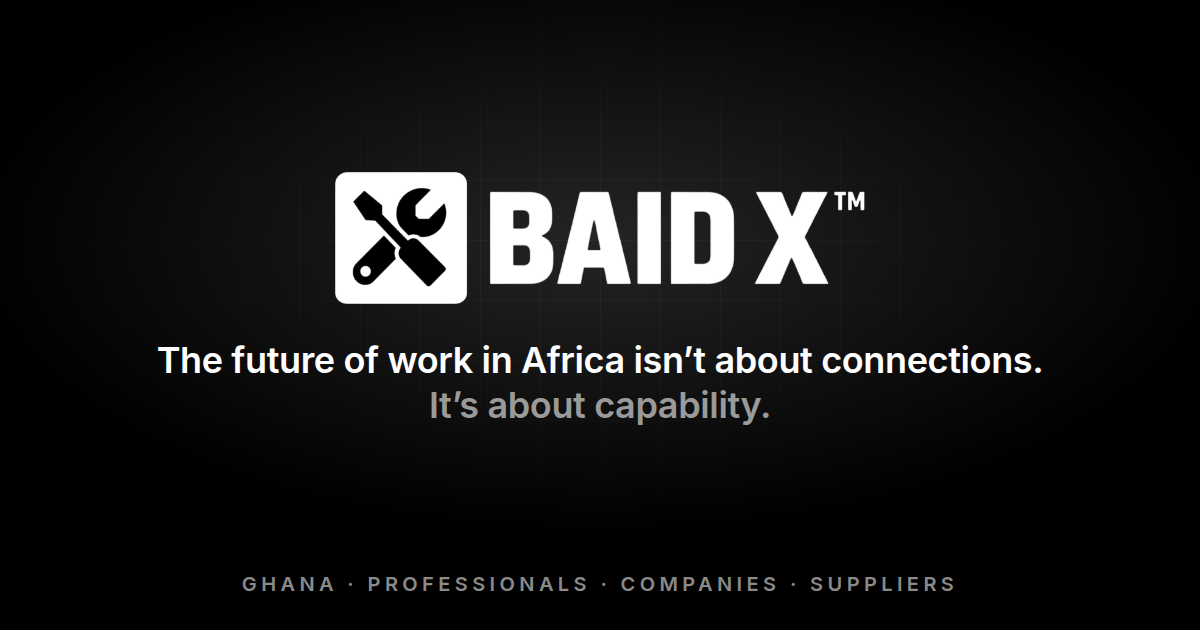
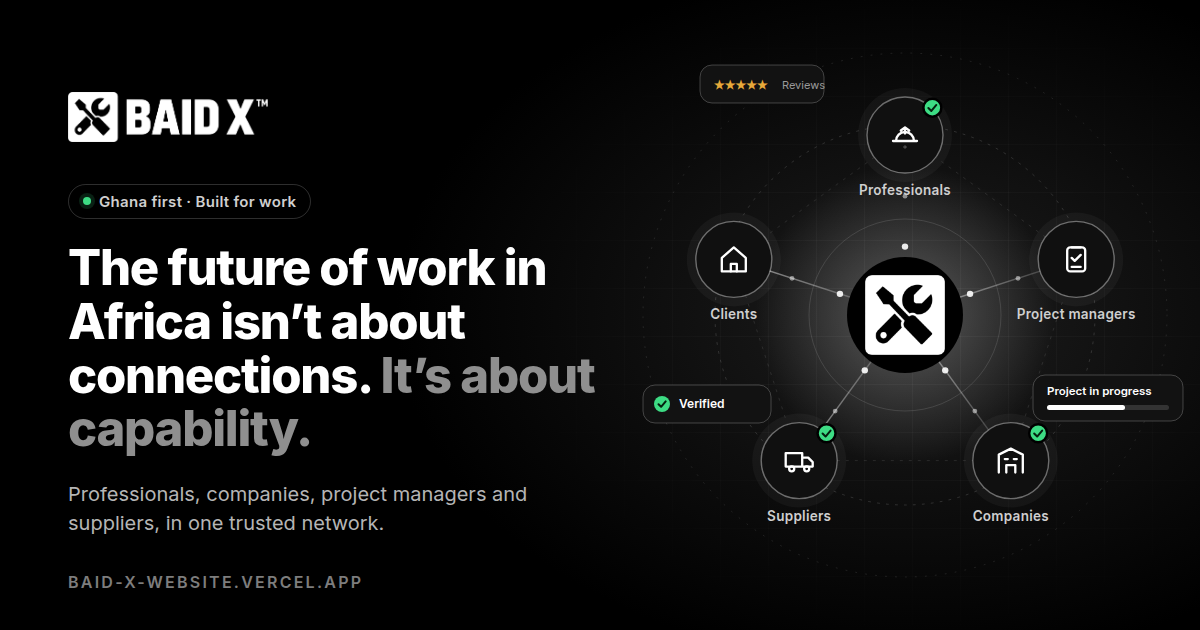
New link preview with ecosystem illustration, manifest shortcuts, staff Finance tab and Paystack admin endpoint
Claude-Session: https://claude.ai/code/session_01MX2saYVHC1yBKdkejr2JWq

diff --git a/js/admin.js b/js/admin.js
@@ -33,7 +33,7 @@
 
   async function render() {
     const me = state.me, can = (k) => me.can.includes(k);
-    const tabs = [["overview", "Overview"], ["orgs", "Organizations"], ...(can("audit:VIEW") ? [["audit", "Activity"]] : []), ["access", "Roles"]];
+    const tabs = [["overview", "Overview"], ["orgs", "Organizations"], ...(can("finance:VIEW") ? [["finance", "Finance"]] : []), ...(can("audit:VIEW") ? [["audit", "Activity"]] : []), ["access", "Roles"]];
     let body = "";
     try {
       if (state.tab === "overview") {
@@ -42,6 +42,8 @@
       } else if (state.tab === "orgs") {
         const list = await rpc("platform_orgs");
         body = list.length ? list.map((o) => `<div class="row org-row"><span class="tx"><b>${esc(o.name)}</b><small><span class="code">${esc(o.public_code)}</span> ${esc(o.owner)} · ${o.members} people · ${esc(pretty(o.org_type))}</small></span>${pill(o.status)}${can("organizations:EDIT") ? `<button class="btn-dark sm" data-org="${esc(o.org_id)}" data-s="${o.status === "ACTIVE" ? "SUSPENDED" : "ACTIVE"}">${o.status === "ACTIVE" ? "Suspend" : "Restore"}</button>` : ""}</div>`).join("") : `<div class="d-empty"><h3>No organizations yet</h3></div>`;
+      } else if (state.tab === "finance") {
+        body = await financeTab(can("finance:ADMINISTER"));
       } else if (state.tab === "audit") {
         const rows = await rpc("platform_audit");
         body = rows.map((a) => `<div class="tl"><b>${esc(pretty(a.action.replace(".", " · ")))}</b><small>${esc(a.actor)} · ${esc(pretty(a.entity))} · ${esc(ago(a.at))}</small></div>`).join("") || `<div class="d-empty"><h3>No activity yet</h3></div>`;
@@ -54,7 +56,30 @@
     root.innerHTML = top(me) + `<div class="segs">${tabs.map(([k, l]) => `<button class="${k === state.tab ? "on" : ""}" data-t="${k}">${esc(l)}</button>`).join("")}</div>` + body;
   }
 
+  const cedi = (m) => `GH₵${(m / 100).toLocaleString("en-GH", { minimumFractionDigits: 2, maximumFractionDigits: 2 })}`;
+  async function api(action) {
+    const { data: { session } } = await sb.auth.getSession();
+    const r = await fetch("/api/paystack-admin", { method: "POST", headers: { "content-type": "application/json", authorization: `Bearer ${session.access_token}` }, body: JSON.stringify({ action }) });
+    return { ok: r.ok, json: await r.json().catch(() => ({})) };
+  }
+  async function financeTab(admin) {
+    const f = await rpc("platform_finance");
+    const conn = admin ? await api("status") : null, c = conn?.json || {};
+    const modeP = c.mode === "test" ? `<span class="pill warn">Test mode</span>` : c.mode === "live" ? `<span class="pill ok">Live</span>` : `<span class="pill bad">Not connected</span>`;
+    const tiles = [[cedi(f.revenue_minor), "Revenue (net)"], [cedi(f.refunded_minor), "Refunded"], [f.pending, "Pending"], [f.failed, "Failed"], [f.flagged, "Needs review"], [Object.values(f.subs_by_status).reduce((a, b) => a + b, 0), "Subscriptions"]];
+    let html = `<div class="stats">${tiles.map(([n, l]) => `<div class="stat"><b>${esc(n)}</b><small>${esc(l)}</small></div>`).join("")}</div>`;
+    if (admin) html += `<div class="dcard"><h4><span>Paystack connection</span>${modeP}</h4>
+      <div class="kv"><span>Plans linked</span><b>${c.plans_with_code ?? 0} of ${c.plans ?? 0}</b></div>
+      <div class="kv"><span>Webhook URL</span><b style="word-break:break-all;font-size:12px">${esc(c.webhook_url || "")}</b></div>
+      <p class="cap2">Paste the webhook URL into Paystack → Settings → API Keys &amp; Webhooks. The secret key stays in Vercel and is never shown here.</p>
+      ${c.mode && c.mode !== "none" && c.plans_with_code < c.plans ? `<button class="btn-light sm" id="mkPlans">Create Paystack plans</button>` : ""}</div>`;
+    html += `<div class="sec">Founding program</div>` + f.founding.map((x) => `<div class="row"><span class="tx"><b>${esc(pretty(x.role))}</b><small>${x.started ? "Started " + esc(ago(x.started)) : "Not started"}</small></span><span class="amt">${x.claimed}/${x.total}</span></div>`).join("");
+    html += `<div class="sec">Recent payments</div>` + (f.recent.length ? f.recent.map((p) => `<div class="row"><span class="tx"><b>${esc(pretty(p.purpose))} · ${cedi(p.amount_minor)}</b><small>${esc(p.provider_reference)} · ${esc(ago(p.created_at))}${p.discrepancy ? " · " + esc(p.discrepancy) : ""}</small></span><span class="pill ${p.discrepancy ? "warn" : p.status === "successful" ? "ok" : ""}">${esc(pretty(p.status))}</span></div>`).join("") : `<div class="cap2">No payments yet. Nothing here is sample data.</div>`);
+    return html;
+  }
+
   root.addEventListener("click", async (e) => {
+    if (e.target.closest("#mkPlans")) { const b = e.target.closest("#mkPlans"); b.disabled = true; b.textContent = "Creating…"; const r = await api("create_plans"); toast(r.ok ? `Created ${r.json.created} plans${r.json.failed ? `, ${r.json.failed} failed` : ""}` : r.json.error || "Failed"); return render(); }
     const t = e.target.closest("[data-t]"); if (t) { state.tab = t.dataset.t; return render(); }
     if (e.target.closest("#out")) { await sb.auth.signOut(); return login(); }
     const b = e.target.closest("[data-org]");

diff --git a/api/paystack-admin.js b/api/paystack-admin.js
@@ -1,0 +1,39 @@
+// POST /api/paystack-admin { action: "status" | "create_plans" }  — staff only (Super Admin with finance:ADMINISTER).
+// Lets the owner check the Paystack connection and create the Paystack plans without ever exposing a key.
+const { configured, env, mode, supa, rpc, paystack } = require("./_lib/paystack");
+
+module.exports = async (req, res) => {
+  res.setHeader("cache-control", "no-store");
+  if (req.method !== "POST") return res.status(405).json({ error: "Method not allowed" });
+  try {
+    const token = String(req.headers.authorization || "").replace(/^Bearer /i, "");
+    if (!token) return res.status(401).json({ error: "Sign in again." });
+    // ask the database who this is (as them) and what they may do
+    const me = await supa("/rest/v1/rpc/platform_whoami", { method: "POST", body: {}, token });
+    if (!me.ok || !me.json?.can?.includes("finance:ADMINISTER")) return res.status(403).json({ error: "Not allowed." });
+
+    const action = req.body?.action || "status";
+    const plans = await supa("/rest/v1/membership_plans?select=id,role,tier,billing_interval,price_minor,currency,is_founding,paystack_plan_code");
+    const list = plans.json || [];
+    if (action === "status") {
+      return res.status(200).json({ configured: configured(), mode: mode(), plans: list.length, plans_with_code: list.filter((p) => p.paystack_plan_code).length, webhook_url: `${req.headers.origin || "https://baid-x-website.vercel.app"}/api/paystack-webhook` });
+    }
+    if (action === "create_plans") {
+      if (!configured()) return res.status(503).json({ error: "Paystack keys are not set." });
+      let created = 0, failed = 0;
+      for (const p of list.filter((x) => !x.paystack_plan_code)) {
+        const name = `BAID X ${p.role} ${p.tier} ${p.billing_interval}${p.is_founding ? " founding" : ""} (${mode()})`;
+        const r = await paystack("/plan", { method: "POST", body: { name, amount: p.price_minor, interval: p.billing_interval === "annual" ? "annually" : "monthly", currency: p.currency } });
+        const code = r.json?.data?.plan_code;
+        if (!r.ok || !code) { failed++; continue; }
+        const w = await supa(`/rest/v1/membership_plans?id=eq.${p.id}&paystack_plan_code=is.null`, { method: "PATCH", body: { paystack_plan_code: code, updated_at: new Date().toISOString() } });
+        if (w.ok) created++; else failed++;
+      }
+      await rpc("billing_apply_event", { p_type: "admin.plans_created", p_dedupe_key: `plans:${Date.now()}`, p_subscription_code: null, p_reference: null, p_amount_minor: null, p_payload: { created, failed, mode: mode() } });
+      return res.status(200).json({ created, failed });
+    }
+    return res.status(400).json({ error: "Unknown action." });
+  } catch {
+    return res.status(500).json({ error: "Something went wrong." });
+  }
+};

diff --git a/auth.html b/auth.html
@@ -25,15 +25,17 @@
   <meta property="og:title" content="Join BAID X · Ghana's work network" />
   <meta property="og:description" content="Find verified professionals, companies, project managers and suppliers across Ghana. Hire, run projects and build trust, all in one place." />
   <meta property="og:url" content="https://baid-x-website.vercel.app/auth.html" />
-  <meta property="og:image" content="https://baid-x-website.vercel.app/assets/og-image.png" />
+  <meta property="og:image" content="https://baid-x-website.vercel.app/assets/og-image.png?v=3" />
+  <meta property="og:image:secure_url" content="https://baid-x-website.vercel.app/assets/og-image.png?v=3" />
   <meta property="og:image:type" content="image/png" />
   <meta property="og:image:width" content="1200" />
   <meta property="og:image:height" content="630" />
-  <meta property="og:image:alt" content="BAID X: the future of work in Africa isn't about connections, it's about capability." />
+  <meta property="og:image:alt" content="BAID X: five roles, professionals, project managers, companies, suppliers and clients, connected around one trusted network. The future of work in Africa isn\'t about connections, it\'s about capability." />
   <meta name="twitter:card" content="summary_large_image" />
   <meta name="twitter:title" content="Join BAID X · Ghana's work network" />
   <meta name="twitter:description" content="Find verified professionals, companies, project managers and suppliers across Ghana. Hire, run projects and build trust, all in one place." />
-  <meta name="twitter:image" content="https://baid-x-website.vercel.app/assets/og-image.png" />
+  <meta name="twitter:image:alt" content="BAID X: the ecosystem of professionals, project managers, companies, suppliers and clients." />
+  <meta name="twitter:image" content="https://baid-x-website.vercel.app/assets/og-image.png?v=3" />
   <link rel="stylesheet" href="css/app.css" />
   <link rel="stylesheet" href="css/auth.css" />
 </head>

diff --git a/index.html b/index.html
@@ -25,15 +25,17 @@
   <meta property="og:title" content="BAID X · Ghana's work network" />
   <meta property="og:description" content="Find verified professionals, companies, project managers and suppliers across Ghana. Hire, run projects and build trust, all in one place." />
   <meta property="og:url" content="https://baid-x-website.vercel.app/" />
-  <meta property="og:image" content="https://baid-x-website.vercel.app/assets/og-image.png" />
+  <meta property="og:image" content="https://baid-x-website.vercel.app/assets/og-image.png?v=3" />
+  <meta property="og:image:secure_url" content="https://baid-x-website.vercel.app/assets/og-image.png?v=3" />
   <meta property="og:image:type" content="image/png" />
   <meta property="og:image:width" content="1200" />
   <meta property="og:image:height" content="630" />
-  <meta property="og:image:alt" content="BAID X: the future of work in Africa isn't about connections, it's about capability." />
+  <meta property="og:image:alt" content="BAID X: five roles, professionals, project managers, companies, suppliers and clients, connected around one trusted network. The future of work in Africa isn\'t about connections, it\'s about capability." />
   <meta name="twitter:card" content="summary_large_image" />
   <meta name="twitter:title" content="BAID X · Ghana's work network" />
   <meta name="twitter:description" content="Find verified professionals, companies, project managers and suppliers across Ghana. Hire, run projects and build trust, all in one place." />
-  <meta name="twitter:image" content="https://baid-x-website.vercel.app/assets/og-image.png" />
+  <meta name="twitter:image:alt" content="BAID X: the ecosystem of professionals, project managers, companies, suppliers and clients." />
+  <meta name="twitter:image" content="https://baid-x-website.vercel.app/assets/og-image.png?v=3" />
   <link rel="stylesheet" href="css/app.css" />
 </head>
 <body>

diff --git a/api/_lib/paystack.js b/api/_lib/paystack.js
@@ -3,7 +3,7 @@ const crypto = require("crypto");
 
 const env = () => ({
   secret: process.env.PAYSTACK_SECRET_KEY,
-  supaUrl: process.env.SUPABASE_URL,
+  supaUrl: process.env.SUPABASE_URL || "https://igfmmprlrybxsdzehwid.supabase.co", // the project URL is public, not a secret
   serviceKey: process.env.SUPABASE_SERVICE_ROLE_KEY,
 });
 const configured = () => { const e = env(); return !!(e.secret && e.supaUrl && e.serviceKey); };
@@ -44,4 +44,6 @@ function dedupeKey(ev) {
   return `${ev.event}:${id || crypto.createHash("sha256").update(JSON.stringify(d)).digest("hex").slice(0, 24)}`;
 }
 
-module.exports = { env, configured, validSignature, readRaw, supa, rpc, paystack, dedupeKey };
+const mode = () => { const k = process.env.PAYSTACK_SECRET_KEY || ""; return k.startsWith("sk_test_") ? "test" : k.startsWith("sk_live_") ? "live" : k ? "unknown" : "none"; };
+
+module.exports = { mode, env, configured, validSignature, readRaw, supa, rpc, paystack, dedupeKey };
